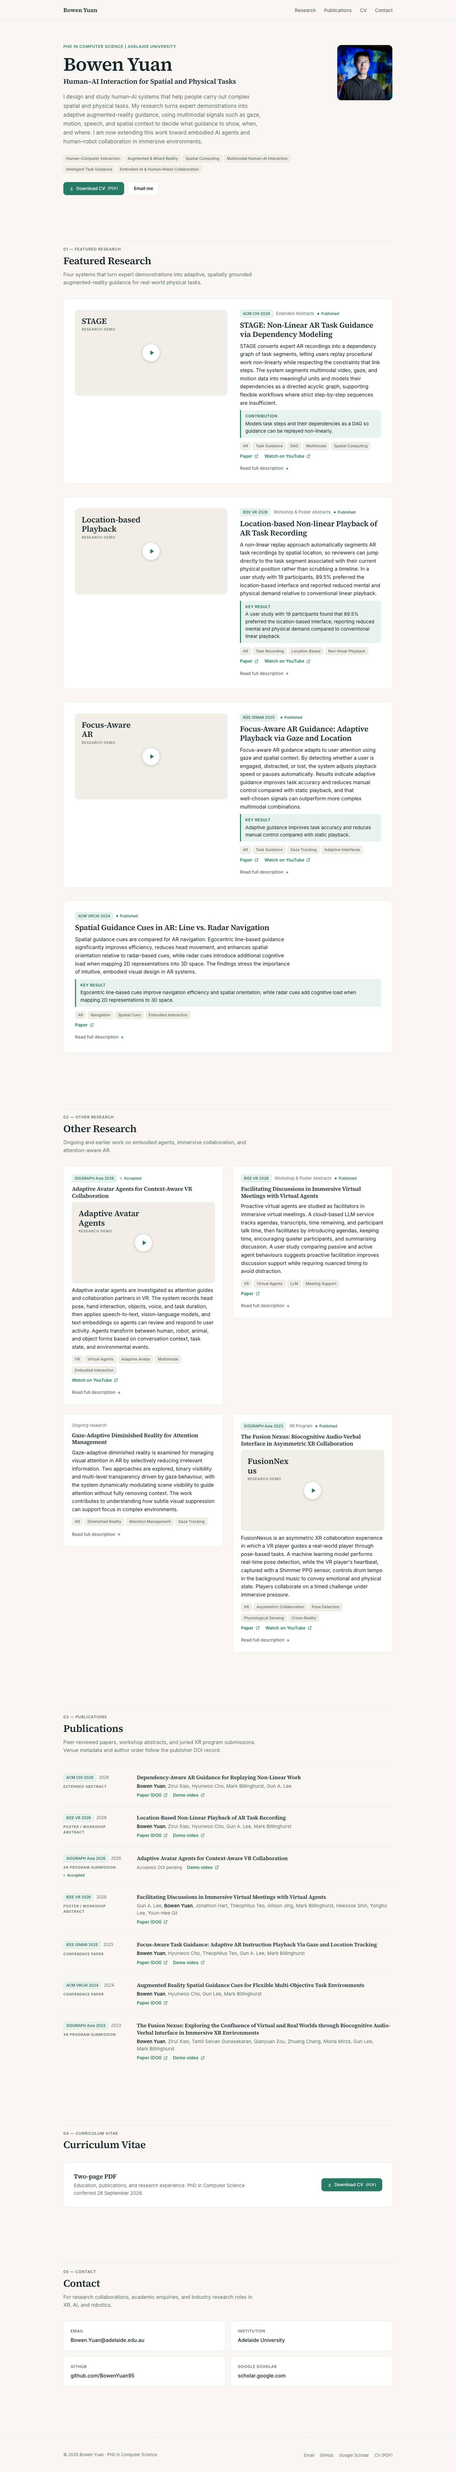
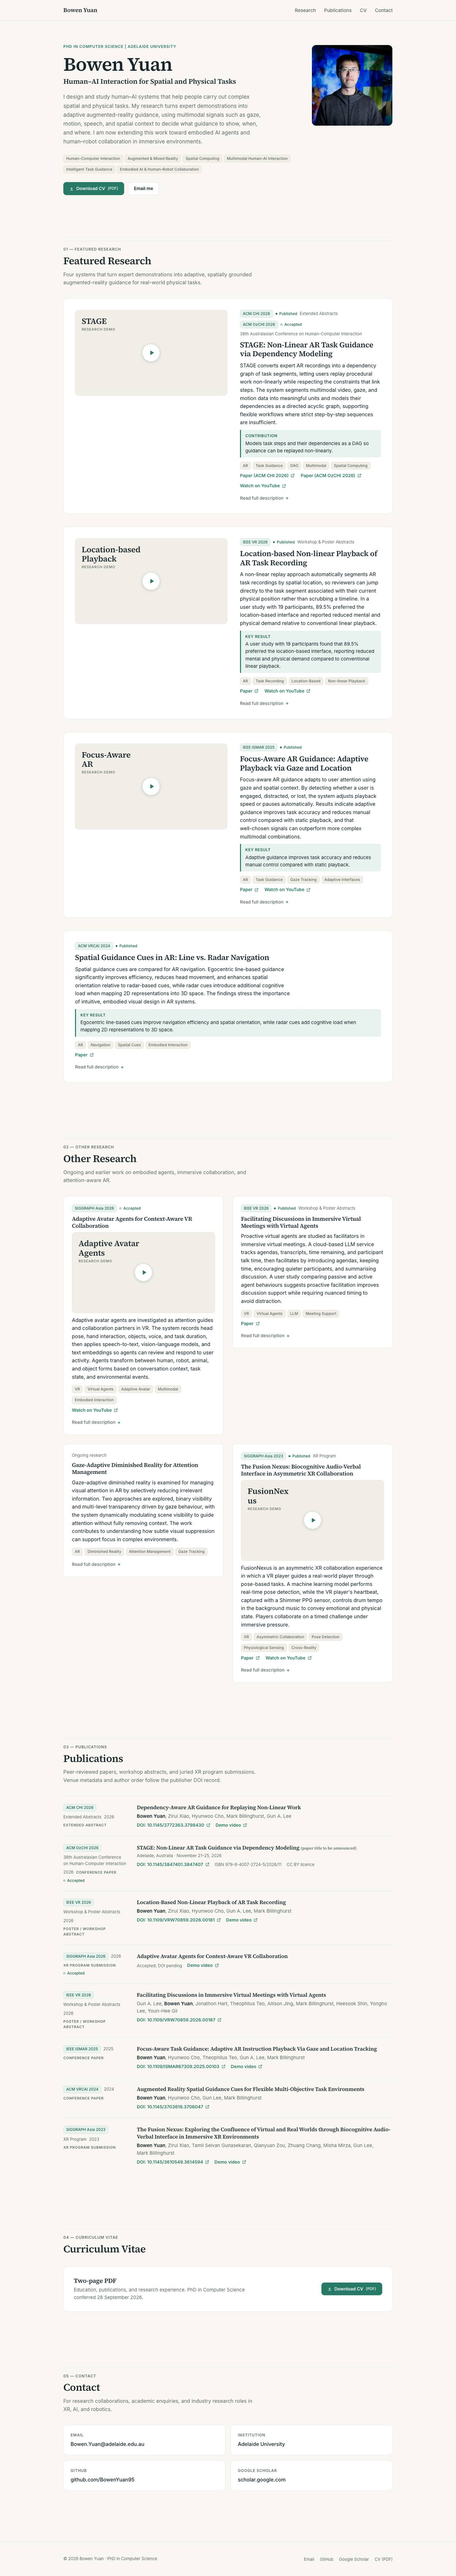
Support multiple publications per project; refine hero portrait
Integrates the concurrent multi-publication work and re-verifies the build.

Content model / templates
- projects may now use `publications: [...]` in addition to the original
  single `publication` object and the legacy flat venue/doi fields; the new
  `project-publications.html` partial normalises all three shapes.
- STAGE gains its second paper (ACM OzCHI 2026, Accepted, Adelaide,
  21-25 Nov 2026). Title and authors are deliberately omitted until the
  publisher record exists; the Publications list says "paper title to be
  announced" instead of inventing one.
- One venue badge + status per publication in project cards; one DOI link per
  publication in card actions; demo-video/code links render once per project.
- Publications list flattens all publication records (7 -> 8 items, ordered by
  year, CHI before OzCHI).

Styling
- hero portrait 144 -> 152 px (mobile) and 240 -> 256 px (>=1024 px), sized by
  the existing --portrait-size knob.
- styles for `.project__meta-pub` (wrapping between publications, not inside a
  badge) and `.publication__event` (conference location/dates).

Docs
- README documents the three accepted publication shapes.
- verification log records the 2026-10-29 Chrome/doi.org resolution check for
  all seven DOIs: six resolve to their publisher record, the OzCHI DOI returns
  "DOI Not Found" (proceedings not registered yet; conference 21-25 Nov 2026).
  The owner decided to publish the Accepted record with its DOI link.
[…]

diff --git a/static/css/main.css b/static/css/main.css
@@ -360,7 +360,7 @@ b {
 .hero {
   /* Portrait is sized against the bio: one knob drives both the image and the
      grid column that holds it. */
-  --portrait-size: 9rem; /* 144px */
+  --portrait-size: 9.5rem; /* 152px */
 
   padding-block: clamp(2.5rem, 6vw, 4.5rem) clamp(2rem, 5vw, 3.5rem);
 }
@@ -465,13 +465,15 @@ b {
 
   .hero__portrait {
     justify-self: end;
-    margin-top: 0.25rem;
+    /* Drop the portrait so it is optically centred against the intro block
+       (eyebrow -> bio) instead of hanging from the eyebrow line. */
+    margin-top: calc(var(--portrait-size) * 0.15);
   }
 }
 
 @media (min-width: 1024px) {
   .hero {
-    --portrait-size: 15rem; /* 240px */
+    --portrait-size: 16rem; /* 256px */
   }
 }
 
@@ -802,6 +804,16 @@ b {
 .project__meta-item {
   display: inline-flex;
   align-items: center;
+}
+
+/* One publication record inside the card meta line. Keeping each record in its
+   own flex row means a multi-publication project wraps between venues rather
+   than splitting a badge or status from its venue. */
+.project__meta-pub {
+  display: inline-flex;
+  flex-wrap: wrap;
+  align-items: center;
+  gap: 0.5rem;
 }
 
 .project__title {
@@ -1237,6 +1249,14 @@ b {
   margin: 0;
   font-size: var(--text-small);
   line-height: 1.55;
+  color: var(--muted);
+}
+
+/* Conference location / dates, shown only when the record carries them. */
+.publication__event {
+  margin: 0.25rem 0 0;
+  font-size: var(--text-meta);
+  line-height: 1.5;
   color: var(--muted);
 }
 

diff --git a/layouts/index.html b/layouts/index.html
@@ -3,7 +3,17 @@
 {{- $projects := hugo.Data.projects -}}
 {{- $featured := sort (where $projects "featured" true) "featured_order" -}}
 {{- $others := sort (where $projects "featured" "!=" true) "sort_order" -}}
-{{- $publications := sort (where $projects "publication_year" ">" 0) "publication_year" "desc" -}}
+
+{{- /* Flatten every project's publication records into list items. Projects are
+       ordered by year; a project's own records keep their data order, so STAGE
+       shows its CHI paper before its OzCHI paper. */ -}}
+{{- $publicationItems := slice -}}
+{{- range sort (where $projects "publication_year" ">" 0) "publication_year" "desc" -}}
+  {{- $project := . -}}
+  {{- range $i, $pub := partial "project-publications.html" $project -}}
+    {{- $publicationItems = $publicationItems | append (dict "project" $project "pub" $pub "first" (eq $i 0)) -}}
+  {{- end -}}
+{{- end -}}
 
 <!-- Hero -->
 <section class="hero">
@@ -79,7 +89,7 @@
     </header>
 
     <ol class="publication-list">
-      {{- range $publications }}
+      {{- range $publicationItems }}
         {{ partial "publication.html" . }}
       {{- end }}
     </ol>

diff --git a/layouts/partials/publication.html b/layouts/partials/publication.html
@@ -10,6 +10,7 @@
 */ -}}
 {{- $project := .project -}}
 {{- $pub := .pub -}}
+{{- $first := .first -}}
 {{- $self := site.Params.name -}}
 {{- $title := $pub.title | default "" -}}
 <li class="publication">
@@ -75,11 +76,11 @@
       {{- with $pub.license }}
       <span class="publication__note">{{ . }} licence</span>
       {{- end }}
-      {{- if $project.youtube_id }}
+      {{- if and $first $project.youtube_id }}
       <a class="link-arrow" href="https://www.youtube.com/watch?v={{ $project.youtube_id }}" target="_blank" rel="noopener noreferrer">Demo video{{ partial "icon.html" "external" }}</a>
       {{- end }}
-      {{- with $project.code_url }}
-      <a class="link-arrow" href="{{ . }}" target="_blank" rel="noopener noreferrer">Code{{ partial "icon.html" "external" }}</a>
+      {{- if and $first $project.code_url }}
+      <a class="link-arrow" href="{{ $project.code_url }}" target="_blank" rel="noopener noreferrer">Code{{ partial "icon.html" "external" }}</a>
       {{- end }}
     </div>
   </div>

diff --git a/layouts/partials/project-meta.html b/layouts/partials/project-meta.html
@@ -14,13 +14,13 @@
       {{- $pub := . -}}
       <span class="project__meta-pub">
         <span class="venue-badge">{{ $pub.venue }}</span>
-        {{- with $pub.venue_detail }}
-        <span class="project__meta-item">{{ . }}</span>
-        {{- end }}
         {{- $status := $pub.status | default "Published" -}}
         {{- $slug := "progress" -}}
         {{- if eq $status "Published" }}{{ $slug = "published" }}{{ else if eq $status "Accepted" }}{{ $slug = "accepted" }}{{ end -}}
         <span class="status status--{{ $slug }}"><span class="status__dot"></span>{{ $status }}</span>
+        {{- with $pub.venue_detail }}
+        <span class="project__meta-item">{{ . }}</span>
+        {{- end }}
       </span>
     {{- end -}}
   {{- else -}}

diff --git a/layouts/partials/project-featured.html b/layouts/partials/project-featured.html
@@ -6,7 +6,6 @@
   information-right on desktop, so no information is duplicated per breakpoint.
 */ -}}
 {{- $project := .project -}}
-{{- $pub := $project.publication -}}
 {{- $hasMedia := or $project.youtube_id $project.thumbnail -}}
 <article class="project project--featured{{ if not $hasMedia }} project--wide{{ end }}">
   {{ partial "project-meta.html" $project }}

diff --git a/README.md b/README.md
@@ -37,8 +37,9 @@ hugo --minify              # production build into ./public
 | `nav.html`, `footer.html` | Site chrome |
 | `project-featured.html` | Large research card (media + research information) |
 | `project-compact.html` | Compact card for "Other research" |
-| `project-meta.html` | Venue / year / publication-status line shared by both cards |
-| `project-actions.html` | Paper / video / code / project-page links |
+| `project-meta.html` | Venue / year / publication-status line shared by both cards (one badge per publication) |
+| `project-actions.html` | Paper / video / code / project-page links (one DOI link per publication) |
+| `project-publications.html` | Normalises `publications` / `publication` / legacy flat fields into one list |
 | `publication.html` | One item of the publication list (verified authors + DOI) |
 | `tag-list.html` | Tag chips |
 | `youtube.html` | Click-to-load, privacy-enhanced YouTube player |
@@ -46,7 +47,9 @@ hugo --minify              # production build into ./public
 
 ## Editing research content
 
-`data/projects.json` is an array. Each entry looks like this:
+`data/projects.json` is an array. A project with several papers lists them in a
+`publications` array; a project with one paper may keep the original
+`publication` object. Both shapes render the same. Each entry looks like this:
 
 ```json
 {
@@ -59,17 +62,33 @@ hugo --minify              # production build into ./public
   "featured_order": 1,
   "sort_order": 0,
   "publication_year": 2026,
-  "publication": {
-    "title": "Dependency-Aware AR Guidance for Replaying Non-Linear Work",
-    "venue": "ACM CHI 2026",
-    "venue_detail": "Extended Abstracts",
-    "type": "Extended abstract",
-    "status": "Published",
-    "year": 2026,
-    "doi": "10.1145/3772363.3798430",
-    "pages": "1-5",
-    "authors": ["Bowen Yuan", "Zirui Xiao"]
-  },
+  "publications": [
+    {
+      "title": "Dependency-Aware AR Guidance for Replaying Non-Linear Work",
+      "venue": "ACM CHI 2026",
+      "venue_detail": "Extended Abstracts",
+      "type": "Extended abstract",
+      "status": "Published",
+      "year": 2026,
+      "doi": "10.1145/3772363.3798430",
+      "pages": "1-5",
+      "authors": ["Bowen Yuan", "Zirui Xiao"]
+    },
+    {
+      "venue": "ACM OzCHI 2026",
+      "venue_detail": "38th Australasian Conference on Human-Computer Interaction",
+      "type": "Conference paper",
+      "status": "Accepted",
+      "year": 2026,
+      "doi": "10.1145/3847401.3847407",
+      "conference_dates": "November 21–25, 2026",
+      "location": "Adelaide, Australia",
+      "isbn": "979-8-4007-2724-5/2026/11",
+      "license": "CC BY",
+      "pages": "",
+      "authors": []
+    }
+  ],
   "summary": "35–60 word card summary.",
   "full_description": "Longer description, kept verbatim.",
   "key_result": "Verified result, or the main technical contribution.",
@@ -87,18 +106,27 @@ Rules the templates rely on:
 
 - `featured: true` entries are rendered in `featured_order`; all others are
   rendered in `sort_order` (keep it chronological, newest first).
-- `publication` may be `null` for ongoing work; never label unpublished work
-  "Published". Allowed statuses: `Published`, `Accepted`, `In progress`.
-- `publication` drives **both** the project card metadata and the Publications
-  section — nothing is duplicated in templates. Set `publication_year: 0` when
-  there is no publication record, otherwise the year it belongs under in the
-  Publications list.
-- `publication.title` is the publisher's title (verify it against the DOI);
-  `title` is the project title shown on the site.
+- A record may use `publications` (array), `publication` (single object, the
+  original schema) or legacy top-level `venue` / `doi` fields. The normaliser
+  `project-publications.html` accepts all three, so old entries keep working
+  without a migration.
+- Publications may be absent for ongoing work; never label unpublished work
+  "Published". Allowed statuses: `Published`, `Accepted`, `In progress`. An
+  accepted paper keeps the `Accepted` badge until its publication is confirmed.
+- Publications drive **both** the project card metadata and the Publications
+  section — nothing is duplicated in templates. One card shows one venue badge
+  and one DOI link per publication. Set `publication_year: 0` when there is no
+  publication record, otherwise the year it belongs under in the list.
+- `publications[].title` (or `publication.title`) is the publisher's title
+  (verify it against the DOI); `title` is the project title shown on the site.
+  Omit the paper title when it is not published yet — never reuse another
+  paper's title or assume two papers share a title.
+- `DOI` values render as `https://doi.org/<doi>` links, in the card actions and
+  in the Publications list.
 - `key_result` is rendered as a "Key result" callout only when the sentence
   reports an outcome; otherwise it is labelled "Contribution".
 - `paper_url` may stay empty — the card falls back to `https://doi.org/<doi>`.
-- Never invent metrics, participant counts, authors or venues.
+- Never invent metrics, participant counts, authors, titles or venues.
 
 ## Videos
 

diff --git a/docs/content-verification.md b/docs/content-verification.md
@@ -156,3 +156,35 @@ Remaining overstated copy after the re-check (correctness only; each needs an ow
 - `layouts/index.html:78` — "Peer-reviewed papers and abstracts." covers two "XR program submission" records (`data/projects.json:188,300`). Suggested: "Peer-reviewed papers, workshop abstracts, and juried XR program submissions."
 - `layouts/_default/baseof.html:40` — JSON-LD `alumniOf` asserts the degree came from `Adelaide University`; Crossref supports a 2026 affiliation, not the degree. Suggested: omit `alumniOf` until §6.6 is confirmed.
 
+
+## 8. Update 2026-10-29 — STAGE second publication and multi-publication schema
+
+Scope: working tree after the `publications` refactor; the eight projects and all
+DOIs below were re-checked against Crossref / the owner's submitted metadata.
+
+| Item | Evidence (checked 2026-10-29) | Status |
+|---|---|---|
+| STAGE CHI 2026 record 10.1145/3772363.3798430 | Crossref title "Dependency-Aware AR Guidance for Replaying Non-Linear Work", CHI EA '26, pp. 1–5, 2026-04-13 — unchanged from §2 | VERIFIED |
+| STAGE OzCHI 2026 record 10.1145/3847401.3847407 | Owner-supplied: 38th Australasian Conference on Human-Computer Interaction, Adelaide, Australia, 21–25 Nov 2026, ISBN 979-8-4007-2724-5/2026/11, CC BY, status Accepted. Crossref `/works/10.1145/3847401.3847407` returns **HTTP 404**, and a headless-Chrome check through the system proxy (curl cannot reach doi.org from this host) returns `Error: DOI Not Found` for `https://doi.org/10.1145/3847401.3847407` | ACCEPTED (owner), UNVERIFIED externally — DOI does not resolve yet |
+| OzCHI paper title | Not supplied and not in Crossref — deliberately omitted from `data/projects.json`. The Publications list renders the project title with an explicit "(paper title to be announced)" note instead of reusing the CHI paper's title or inventing one | NOT INVENTED |
+| OzCHI authors / pages | Not supplied and not verifiable; `authors: []` and `pages: ""` omit them rather than guess | NOT INVENTED |
+| Multi-publication data shape | STAGE uses `publications: [...]`; the other seven projects keep the original single `publication` object. Rendering verified after `hugo --minify`: STAGE card shows "ACM CHI 2026 · Published" and "ACM OzCHI 2026 · Accepted" with one DOI link each; the Publications list went from 7 to 8 items with CHI first and OzCHI second | VERIFIED |
+| Backward compatibility | Single-`publication` projects render exactly as before (venue badge, status, one Paper link); a temporary legacy fixture using top-level `venue` / `doi` / `status` also built and rendered correctly (venue, status, DOI link) | VERIFIED |
+| DOI links | Both `https://doi.org/10.1145/3772363.3798430` and `https://doi.org/10.1145/3847401.3847407` are emitted as anchors in the STAGE card actions and in the Publications list; `hugo --minify` exits 0 with no template errors | VERIFIED |
+| DOI resolution (all records) | Headless Chrome via the system proxy (doi.org is blocked for curl here) 2026-10-29: `10.1145/3772363.3798430`, `10.1145/3703619.3706047`, `10.1145/3610549.3614594` → ACM Digital Library (Cloudflare challenge page); `10.1109/VRW70859.2026.00181` → IEEE Xplore document 11489744; `10.1109/VRW70859.2026.00103` → document 11220360; `10.1109/VRW70859.2026.00187` → document 11489662; **`10.1145/3847401.3847407` → "Error: DOI Not Found"** | 6 VERIFIED, OzCHI 2026 NOT RESOLVABLE (yet) |
+
+Status wording kept on the site: CHI 2026 = Published, OzCHI 2026 = Accepted.
+Flip the OzCHI record to `"status": "Published"`, add its verified title/authors
+and Crossref evidence only after the proceedings record exists.
+
+**Owner decision (2026-10-29):** publish the OzCHI 2026 record as supplied —
+`Accepted`, with its DOI link visible — because the paper is accepted and the
+DOI is expected to resolve once the OzCHI 2026 proceedings are registered (the
+conference runs 21–25 November 2026). Until then the link is expected to return
+"DOI Not Found"; re-check it when the proceedings appear. This is the only
+outbound link on the site that is currently known to be unresolvable.
+
+Layout check: headless Chrome renders the built page at 1440 px and at a true
+375 px viewport (iframe harness) with no horizontal overflow; the STAGE card
+meta wraps as venue + status per publication, with the conference name on the
+following line.
